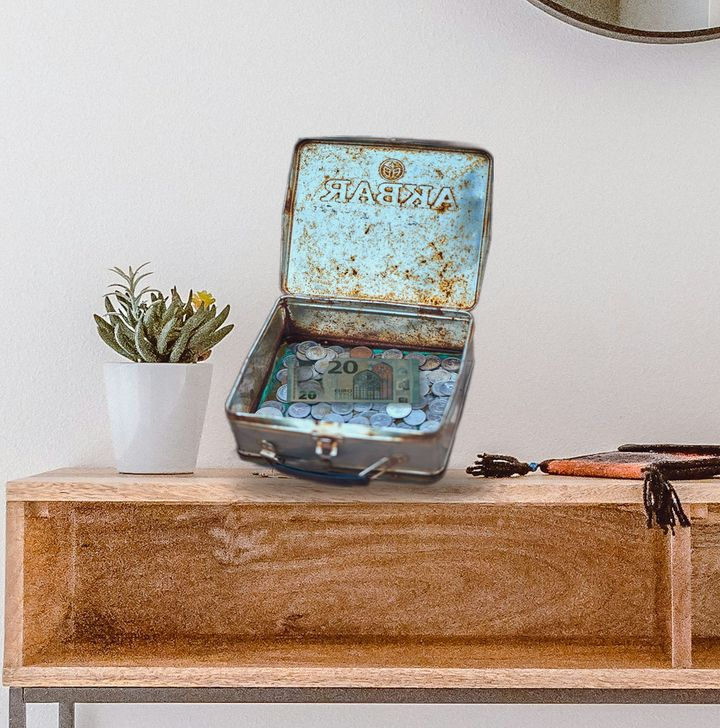
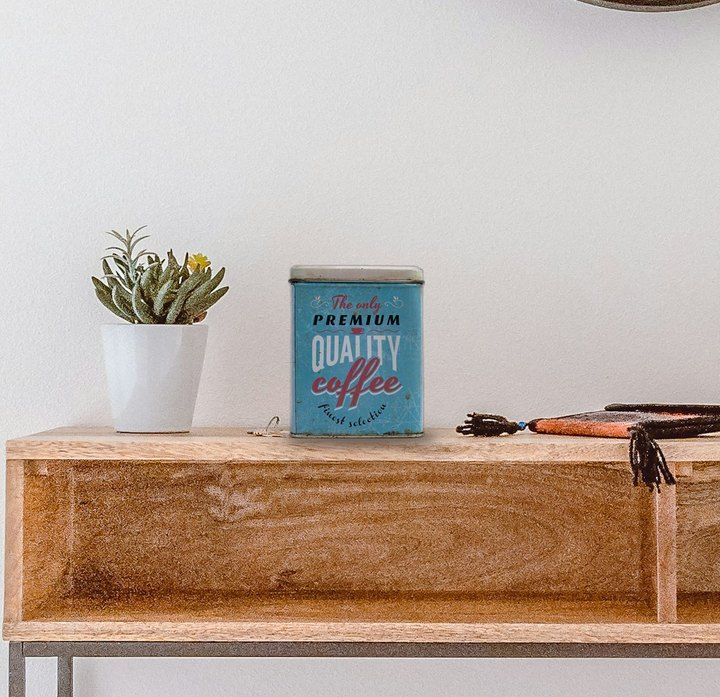
Prototyp: Blechdose steht auf der Flur-Konsole
Claude-Session: https://claude.ai/code/session_01DAbsVjr1EWTJqxhoJS79Qa

diff --git a/website/index.html b/website/index.html
@@ -9,7 +9,7 @@
 <meta name="description" content="Du stellst eine Aufgabe mit Foto und Bounty ein. Jemand aus der Nachbarschaft nimmt sie an und erledigt sie.">
 <link rel="icon" href="favicon.png">
 <link rel="preload" href="fonts/InterTight_600SemiBold.ttf" as="font" type="font/ttf" crossorigin>
-<link rel="stylesheet" href="seite.css?v=835a5c9f">
+<link rel="stylesheet" href="seite.css?v=3f1f6f16">
 <script>document.documentElement.classList.add('js')</script>
 </head>
 <body>
@@ -116,6 +116,7 @@
           <p class="error" id="fehler" hidden></p>
           <button type="submit">App herunterladen</button>
         </form>
+        <a class="button button-zweit" href="app/">Direkt im Browser anmelden und ausprobieren</a>
         <ol class="steps">
           <li>Passwort eingeben und „App herunterladen“ tippen.</li>
           <li>Die Datei <em>kiez-coins.apk</em> öffnen, wenn der Download fertig ist.</li>

diff --git a/scripts/site/seite.css b/scripts/site/seite.css
@@ -260,6 +260,8 @@ button { font: inherit; color: inherit; }
 .card input { width: 100%; font: inherit; color: var(--text); background: var(--bg); border: 1px solid var(--line); border-radius: 14px; padding: 13px 14px; }
 .card .button, .card button { display: block; width: 100%; margin-top: 14px; text-align: center; text-decoration: none; font: 500 16px/1 Inter, sans-serif;
   color: var(--bg); background: var(--purple); border: 0; border-radius: 999px; padding: 17px; cursor: pointer; }
+.card .button-zweit { background: none; color: var(--text); border: 1px solid var(--line); font-weight: 400; }
+.card .button-zweit:hover { border-color: var(--muted); }
 .error { color: var(--red); font-size: 14px; margin: 8px 0 0; }
 .steps { padding-left: 20px; color: var(--muted); margin: 16px 0 0; font-size: 15px; }
 .steps li { margin-bottom: 6px; }

diff --git a/website/seite.css b/website/seite.css
@@ -260,6 +260,8 @@ button { font: inherit; color: inherit; }
 .card input { width: 100%; font: inherit; color: var(--text); background: var(--bg); border: 1px solid var(--line); border-radius: 14px; padding: 13px 14px; }
 .card .button, .card button { display: block; width: 100%; margin-top: 14px; text-align: center; text-decoration: none; font: 500 16px/1 Inter, sans-serif;
   color: var(--bg); background: var(--purple); border: 0; border-radius: 999px; padding: 17px; cursor: pointer; }
+.card .button-zweit { background: none; color: var(--text); border: 1px solid var(--line); font-weight: 400; }
+.card .button-zweit:hover { border-color: var(--muted); }
 .error { color: var(--red); font-size: 14px; margin: 8px 0 0; }
 .steps { padding-left: 20px; color: var(--muted); margin: 16px 0 0; font-size: 15px; }
 .steps li { margin-bottom: 6px; }

diff --git a/scripts/site/fotos/QUELLEN.md b/scripts/site/fotos/QUELLEN.md
@@ -11,6 +11,6 @@ Alle Fotos stammen von Unsplash und stehen unter der Unsplash-Lizenz (https://un
 | tonnen.jpg | Drei Mülltonnen an einer Steinmauer | https://unsplash.com/photos/yNo7pGe6VNA |
 | spuel.jpg | Offene Spülmaschine mit Tellern, rechts beschnitten | https://unsplash.com/photos/mAWTLZIjI8k |
 | rasen.jpg | Rasenmäher auf dem Rasen | https://unsplash.com/photos/zfwyrIA6bFw |
-| einkauf.jpg | Montage: Blechdose mit Münzen und Zwanziger auf einer Flur-Konsole | Dose https://unsplash.com/photos/PCHwH2wIpmQ, Schein https://unsplash.com/photos/ox85AFlyJLc, Flur https://unsplash.com/photos/7ITcqxp3McM |
+| einkauf.jpg | Montage: geschlossene Blechdose auf einer Flur-Konsole | Dose https://unsplash.com/photos/NLDG5Z9V9KM, Flur https://unsplash.com/photos/7ITcqxp3McM |
 | hund.jpg | Golden Retriever an der Leine auf dem Gehweg | https://unsplash.com/photos/VehdYPKnX8Y |
 | waesche.jpg | Wäsche auf der Leine vor Hochhäusern | https://unsplash.com/photos/l0bqydPG994 |
